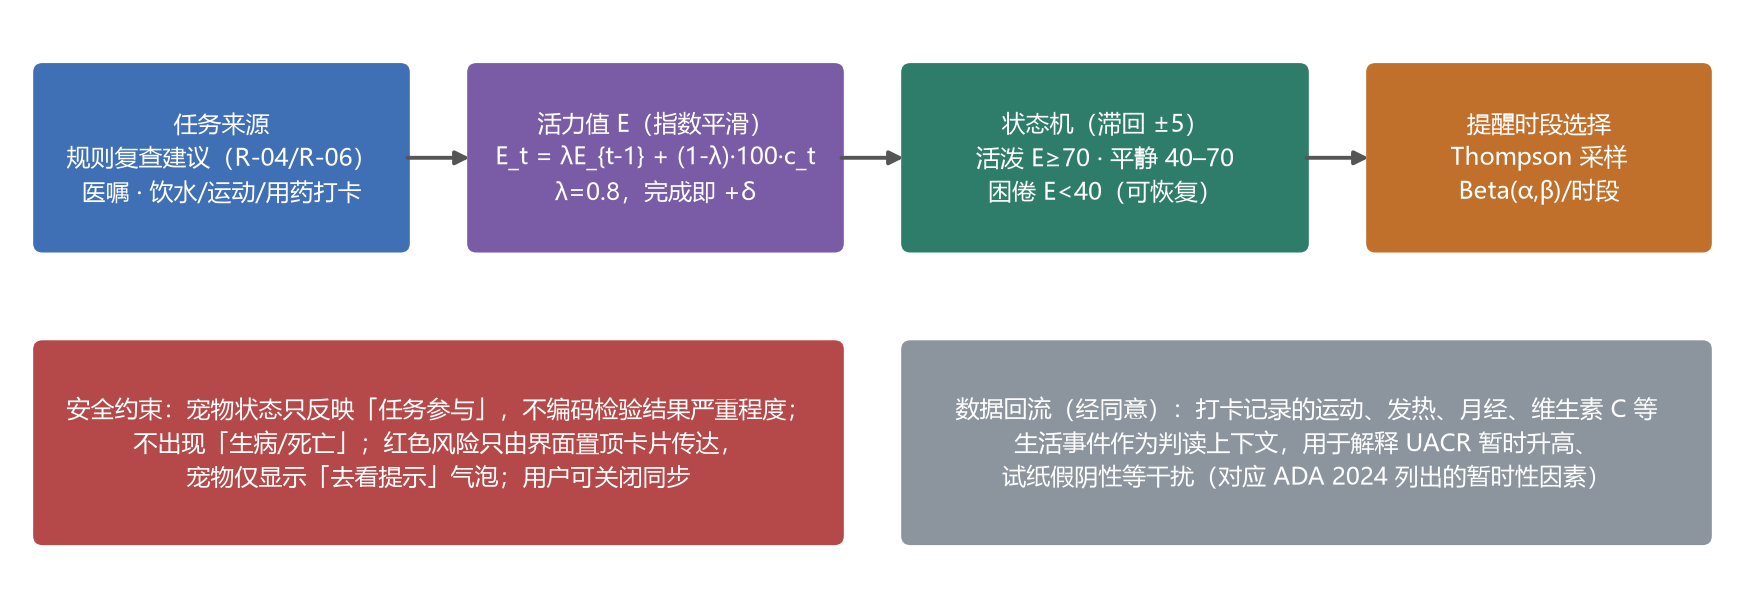
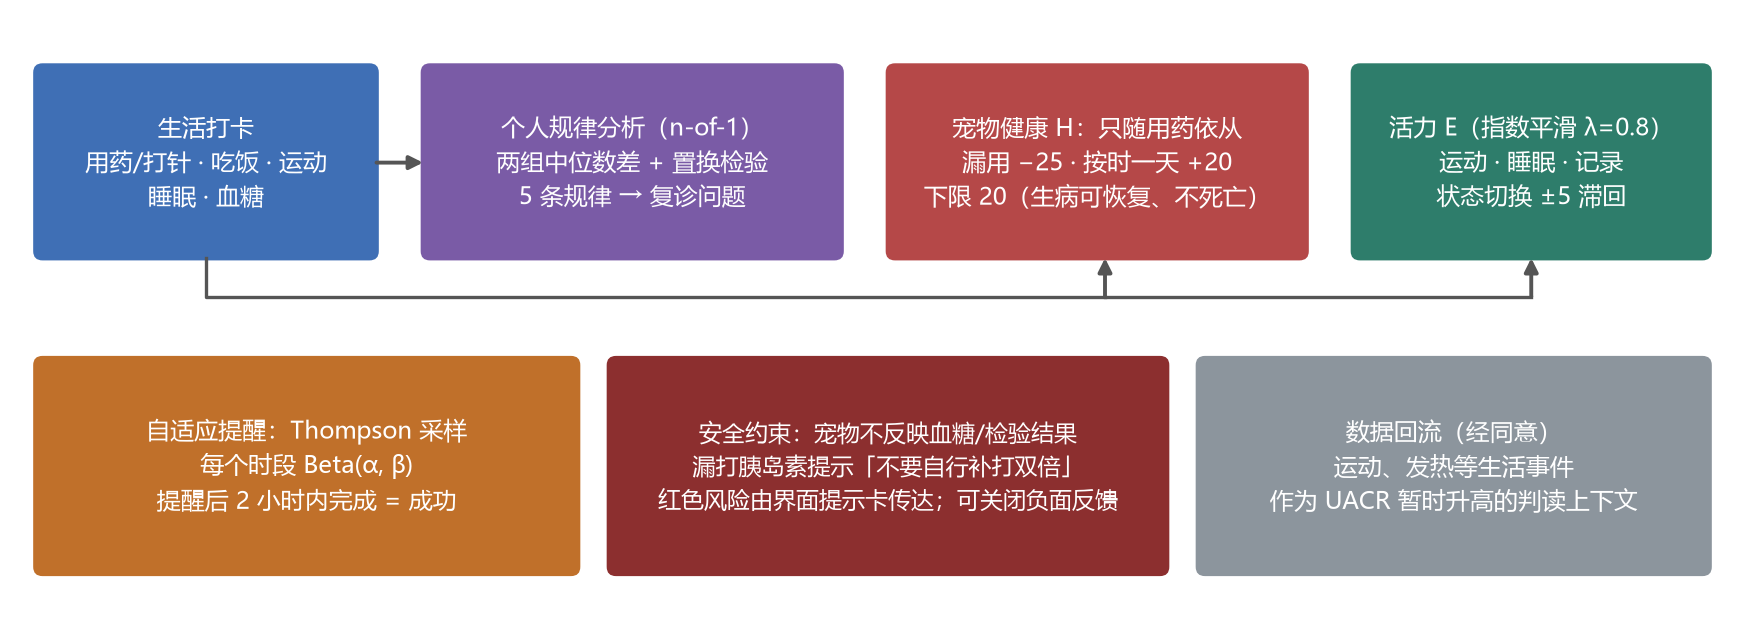
技术方案：宠物与生活作息分析改为已实现原型并加入模拟评测；更新图4、图5

diff --git a/tools/aic_report/content.py b/tools/aic_report/content.py
@@ -10,7 +10,7 @@ ABSTRACT = (
     "MediLens构建“端侧OCR—置信度驱动局部确认—三值逻辑组合规则—检索约束生成—两层安全拦截”的可审计算法链路："
     "报告在手机本地识别，低置信字段在原图上确认；风险等级由规则决定，大模型只在规则结论内改写并经校验。"
     "合成数据实验中，进入判读的识别错误由3.9%降至0.39%，错误安慰率由8.5%降至0；与同一大模型直接解读相比，感染干扰提示召回由60%升至100%，断定诊断由18.3%降至0。"
-    "系统已部署于边缘计算工作站，可在Android手机使用，并设计任务驱动的陪伴宠物促进长期随访。"
+    "系统已部署于边缘计算工作站，并实现了依从驱动的陪伴宠物与自适应提醒原型。"
 )
 
 BODY = [
@@ -56,10 +56,10 @@ BODY = [
           "③场景走查：以患者本人与代整理报告的家属视角，走查“复诊后拍照—查看重点—追问—整理问题”全过程。正式用户访谈与可理解度评分尚未开展，已列入计划。需求归纳见表2。"),
     ("table", "表2 需求归纳",
      ["类别", "具体要求"],
-     [["功能", "拍照/相册/PDF导入；字段识别与局部确认；红黄绿分级与紧急置顶；组合规则与干扰解释；分步追问；逐条“详细了解”；文字提问；复诊问题清单；历史记录"],
+     [["功能", "拍照/PDF导入与局部确认；红黄绿分级与紧急置顶；组合与干扰解释；分步追问；逐条解释；提问；复诊清单；历史"],
       ["性能", "单份报告端到端≤15 s；关键字段确认后准确率≥95%；无大模型时功能可完整运行"],
       ["安全", "未知不等于正常；不下诊断、不给用药建议；解释附出处；越界提问引导就医/遵医嘱；繁体输入同样拦截"],
-      ["体验与隐私", "老年模式（大字、高对比、朗读）；原图不出手机；仅上传脱敏结构化指标；本机加密存储；可删除"]],
+      ["体验与隐私", "老年模式（大字、朗读）；原图不出手机；仅上传脱敏指标；本机加密、可删除"]],
      [2.6, 12.4]),
 
     ("h1", "三、AI技术工具选择与运用"),
@@ -94,7 +94,8 @@ BODY = [
       ["可运行版本", "10月24日", "端侧OCR、局部确认、规则引擎、动态追问、解释与对话、端到端测试（MVP 2.0）"],
       ["实验评测", "10月25日", "独立测试集评测；对照实验A（组合规则）、B（局部确认）、C（越界拦截）"],
       ["模型接入与加固", "10月27日", "接入国内大模型、两层意图识别、UACR强制核对、实验D（对照通用大模型）"],
-      ["知识与部署", "10月28日", "文献核查与知识库导入、边缘计算工作站部署、访问口令与服务端测试"]],
+      ["知识与部署", "10月28日", "文献核查与知识库导入、边缘计算工作站部署、访问口令与服务端测试"],
+      ["生活与陪伴", "10月29日", "生活打卡、个人规律分析、陪伴宠物与自适应提醒原型及模拟评测"]],
      [3.0, 3.0, 9.0]),
     ("p", "团队分工：算法与工程组负责客户端、OCR、规则引擎、后端与评测；医学资料组负责文献检索与知识撰写；产品与测试组负责需求、走查与演示。"
           "资源：开发电脑与Android 15模拟器、一台Ubuntu 22.04边缘计算工作站、国内大模型服务平台。质量保障：后端100项、客户端29项单元测试及端到端集成测试，每次修改全部回归。"),
@@ -147,15 +148,15 @@ BODY = [
           "危险症状按症状类别归纳（呼吸深快或费力、口中水果味、意识或言语改变、胸痛胸闷、晕厥、冷汗等），并结合报告上下文——尿酮体阳性时“乏力、恶心、口渴”也按危险征象处理。"
           "第一层未命中时，第二层由大模型做四分类（用药/诊断/紧急/无），与回答改写并行执行以节省时间。命中任一类即返回固定安全模板（遵医嘱、就医或拨打120），不经过大模型。"),
     ("fig", "fig3_safety.png", "图3 两层意图识别与受约束生成的安全链路", 15.0),
-    ("h3", "9. 陪伴宠物模块的算法设计（规划中，尚未实现）"),
-    ("p", "糖尿病管理依赖长期依从，宠物陪伴用于提升复查与日常健康任务的持续参与（图4）。任务来源包括规则生成的复查建议（如R-04的“3–6个月内复查UACR”）、用户录入的医嘱，以及饮水、运动、用药打卡。"
-          "宠物活力值采用指数平滑：E_t = λE_{t-1} + (1−λ)·100·c_t（c_t为当日任务完成率，λ=0.8，约3天半衰），完成任务即时加δ以体现“可恢复”；"
-          "状态机划分为活泼（E≥70）、平静（40–70）与困倦（E<40），阈值设±5滞回以避免频繁跳变。提醒时段采用Thompson采样[23]：为早、中、晚等时段维护Beta(α, β)分布，"
-          "以“提醒后2小时内完成任务”为奖励在线更新，在免打扰时段约束下自适应选择提醒时间。"),
-    ("p", "安全设计：宠物状态只反映“任务参与”，不编码检验结果的严重程度，不出现“生病、死亡”等制造焦虑的表现；红色风险只由界面置顶卡片传达，宠物仅显示“去看提示”气泡；用户可关闭同步。"
-          "此外，经用户同意，打卡记录中的运动、发热、月经、维生素C补充等生活事件可作为判读上下文，用于解释UACR暂时升高[7][11]或试纸假阴性[14]，使陪伴模块与解读算法形成数据闭环。"
-          "该模块评估方案为：以复查按时完成率与30天留存为主要指标，与无宠物版本进行对照。"),
-    ("fig", "fig4_pet.png", "图4 陪伴宠物模块算法设计（规划中）", 15.0),
+    ("h3", "9. 生活作息分析与陪伴宠物（原型）"),
+    ("p", "糖尿病管理依赖长期依从。原型让患者打卡用药/打针、吃饭、运动、睡眠与血糖（图4），在个人数据上做“n-of-1”规律分析：对每条候选规律把记录分为两组，"
+          "比较餐后2小时、次日空腹或夜间最低血糖的中位数差，并用置换检验评估差异是否可能出于偶然；每组不足4例、差异小于阈值或p>0.2时不输出。"
+          "已实现5条规律：餐时胰岛素在餐后才打、饭后1小时内活动、睡眠不足6小时、晚间运动、漏用药日。输出只描述“相关”，不给剂量建议，并转为复诊问题。"),
+    ("p", "宠物健康值H只随用药依从变化：每漏用一次−25，按时用药一天+20，下限20，即漏药会“生病”以示警示，1–2天即可恢复且不会“死亡”；"
+          "活力值E_t = 0.8·E_{t-1} + 0.2·100·c_t（c_t为当日运动、睡眠、记录的完成度），状态切换设±5滞回。宠物不反映血糖与检验结果，避免患者因数值不佳而回避记录；"
+          "漏打胰岛素时提示“不要自行补打双倍”；负面反馈可关闭。提醒时段采用Thompson采样[23]：为每个候选时段维护Beta(α, β)分布，以“提醒后2小时内完成”为奖励在线更新。"
+          "经用户同意，打卡中的运动、发热等生活事件还可作为解释UACR暂时升高的上下文[7][11]，与解读模块形成数据闭环。"),
+    ("fig", "fig4_pet.png", "图4 生活作息分析与陪伴宠物算法", 15.0),
     ("h3", "10. 部署、隐私与安全"),
     ("p", "后端部署于Ubuntu 22.04边缘计算工作站并开机自启，部署脚本无需管理员权限，仅依赖国内镜像。服务端设访问口令，无口令请求一律拒绝；大模型密钥只存于服务器。"
           "客户端仅上传脱敏结构化指标与问答，不上传图像、姓名与医院；本机记录加密存储、可一键删除。大模型不可用时自动降级，判读与解释照常运行。"),
@@ -163,7 +164,7 @@ BODY = [
     ("h1", "五、研究或应用成效"),
     ("h2", "（一）成果展示"),
     ("p", "已实现从拍照/导入、本机识别、局部确认、组合判读、动态追问、逐条解释、文字提问、复诊问题清单到本机加密保存的完整流程，普通模式与老年模式均可完成（图5）；"
-          "Android应用已可连接边缘服务器使用。语音、药盒识别、注册与云备份、趋势提醒与陪伴宠物保留入口并标注“待实现”。各模块实测结果见表6。"),
+          "生活打卡与陪伴宠物原型已可使用；Android应用已连接边缘服务器。语音、药盒识别、注册与云备份保留入口并标注“待实现”。各模块实测结果见表6。"),
     ("fig", "fig6_screens.png", "图5 应用界面（Android模拟器实拍，合成数据）", 15.0),
     ("table", "表6 各模块测试结果（合成数据）",
      ["模块", "指标", "目标", "实测"],
@@ -174,12 +175,14 @@ BODY = [
       ["解释生成", "数值一致率 / 出处覆盖率", "100%", "100% / 100%（1830条）"],
       ["安全拦截", "越界拦截率；正常问题误拦截", "100%；0", "90.9%（第二轮新题）；0/16"],
       ["整体性能", "端到端时长", "≤15 s", "3.3–8.0 s；大模型回答1.6–7 s"],
+      ["生活规律分析", "检出率/误报率（28天模拟记录）", "—", "胰岛素先后100%/1%；睡眠94%/0%；饭后活动78%/0%"],
+      ["自适应提醒", "30天任务完成率", "—", "54.6%（随机时段48.0%，上限65%）"],
       ["整体体验", "解读可理解度", "≥4/5", "未测（计划5–10人评分）"]],
      [2.8, 4.6, 2.6, 5.0]),
     ("h2", "（二）效益分析"),
-    ("p", "社会效益：把专业尿检信息转化为可理解、可核查、可追溯的内容，以复诊问题清单为出口帮助患者在有限门诊时间内更有准备地沟通；老年模式与家属代整理场景降低照护负担。"
-          "成本方面，识别在手机端完成、判读为规则计算，服务器无需GPU，大模型仅用于短文本改写且可降级运行，便于在基层推广。"
-          "方法效益：合成报告生成器、开发/测试集隔离、规则独立判定程序、两轮越界题库与异厂商模型评审的对照实验框架，可供同类医学AI解释系统复用。"),
+    ("p", "社会效益：把专业尿检信息转化为可理解、可追溯的内容，以复诊问题清单帮助患者更有准备地沟通，并以陪伴与提醒促进长期依从。"
+          "成本：识别在手机端、判读为规则计算，服务器无需GPU，大模型可降级运行，便于在基层推广。"
+          "方法：合成数据生成器、开发/测试集隔离、独立判定程序、越界题库与异厂商模型评审的对照框架，可供同类系统复用。"),
     ("h2", "（三）创新性体现"),
     ("p", "本作品不把OCR、检索增强生成[20]或规则引擎等单项技术作为创新点，而是针对“医学信息解释的可靠性”提出并验证了一套可审计的算法组合："),
     ("p", "（1）置信度与领域规则联合驱动的局部确认：把“人在回路”精确施加到少数高风险字段，并针对“高置信度静默错误”引入关键定量值强制核对与小数点候选。"
@@ -200,8 +203,8 @@ BODY = [
      [8.0, 3.5, 3.5]),
     ("fig", "fig5_results.png", "图6 对照实验结果", 15.0),
     ("p", "实验D由另一厂商模型按固定标准评审，人工抽查确认“错误安慰”与“漏提感染干扰”判定正确；“断定诊断”判定偏严，18.3%可能高估。"),
-    ("p", "（4）任务驱动、与判读解耦的陪伴宠物设计：宠物只反映任务参与而不暗示病情，并以Thompson采样自适应提醒时间、以生活事件回流丰富判读上下文。"
-          "根据竞品分析，现有陪伴激励类产品的宠物与医疗数据没有联动，该设计目前处于方案阶段。"),
+    ("p", "（4）依从驱动、与检验结果解耦的陪伴宠物：漏药“生病”以示警示但可恢复、不死亡，并以Thompson采样自适应提醒时间、以n-of-1规律分析连接日常作息与血糖。"
+          "在100名植入效应与100名无效应的模拟患者上（28天记录），主要规律检出率78%–100%、误报率≤1%；自适应提醒使任务完成率由48.0%提升至54.6%。竞品分析中，陪伴激励类产品的宠物与医疗数据没有联动。"),
 
     ("h1", "六、总结与展望"),
     ("h2", "（一）经验总结"),
@@ -214,7 +217,7 @@ BODY = [
      ["时间", "方向", "主要内容"],
      [["近期（1–3个月）", "真实数据与医学审核", "伦理审批后采集不少于100份授权脱敏真实报告评测识别率；医学专家审核规则与知识；5–10人可理解度评分；编写第三轮独立越界题库"],
       ["近期（1–3个月）", "安全与知识", "在边缘工作站部署轻量意图分类模型，消除对外部平台时延的依赖；知识库扩充至40条以上并引入向量检索"],
-      ["中期（3–6个月）", "陪伴与随访", "实现陪伴宠物与任务系统，开展依从性对照评估；多次报告趋势追踪与复查提醒；语音交互"],
+      ["中期（3–6个月）", "陪伴与随访", "系统通知提醒、对接血糖仪/CGM；用公开CGM数据集验证规律分析；评估宠物负面反馈对依从与情绪的影响；语音交互"],
       ["远期", "扩展与推广", "扩展血糖、HbA1c、肌酐/eGFR联合解读；家属共享；与社区医疗机构合作试点"]],
      [3.2, 3.2, 8.6]),
 ]

diff --git a/tools/aic_report/make_figures.py b/tools/aic_report/make_figures.py
@@ -131,18 +131,22 @@ def fig_safety():
 
 
 def fig_pet():
-    fig, ax = plt.subplots(figsize=(11, 3.7))
+    fig, ax = plt.subplots(figsize=(11, 3.9))
     ax.set_xlim(0, 11)
-    ax.set_ylim(0, 3.7)
+    ax.set_ylim(0, 3.9)
     ax.axis("off")
-    box(ax, 0.1, 2.2, 2.4, 1.2, "任务来源\n规则复查建议（R-04/R-06）\n医嘱 · 饮水/运动/用药打卡", C_SRV, fs=8.5)
-    box(ax, 2.9, 2.2, 2.4, 1.2, "活力值 E（指数平滑）\nE_t = λE_{t-1} + (1-λ)·100·c_t\nλ=0.8，完成即 +δ", C_KB, fs=8.5)
-    box(ax, 5.7, 2.2, 2.6, 1.2, "状态机（滞回 ±5）\n活泼 E≥70 · 平静 40–70\n困倦 E<40（可恢复）", C_DEV, fs=8.5)
-    box(ax, 8.7, 2.2, 2.2, 1.2, "提醒时段选择\nThompson 采样\nBeta(α,β)/时段", C_LLM, fs=8.5)
-    for x in (2.5, 5.3, 8.3):
-        arrow(ax, x, 2.8, x + 0.4, 2.8)
-    box(ax, 0.1, 0.3, 5.2, 1.3, "安全约束：宠物状态只反映「任务参与」，不编码检验结果严重程度；\n不出现「生病/死亡」；红色风险只由界面置顶卡片传达，\n宠物仅显示「去看提示」气泡；用户可关闭同步", "#B54848", fs=8.5)
-    box(ax, 5.7, 0.3, 5.2, 1.3, "数据回流（经同意）：打卡记录的运动、发热、月经、维生素 C 等\n生活事件作为判读上下文，用于解释 UACR 暂时升高、\n试纸假阴性等干扰（对应 ADA 2024 列出的暂时性因素）", C_GREY, fs=8.5)
+    box(ax, 0.1, 2.35, 2.2, 1.25, "生活打卡\n用药/打针 · 吃饭 · 运动\n睡眠 · 血糖", C_SRV, fs=8.6)
+    box(ax, 2.6, 2.35, 2.7, 1.25, "个人规律分析（n-of-1）\n两组中位数差 + 置换检验\n5 条规律 → 复诊问题", C_KB, fs=8.6)
+    box(ax, 5.6, 2.35, 2.7, 1.25, "宠物健康 H：只随用药依从\n漏用 −25 · 按时一天 +20\n下限 20（生病可恢复、不死亡）", "#B54848", fs=8.6)
+    box(ax, 8.6, 2.35, 2.3, 1.25, "活力 E（指数平滑 λ=0.8）\n运动 · 睡眠 · 记录\n状态切换 ±5 滞回", C_DEV, fs=8.6)
+    arrow(ax, 2.3, 2.97, 2.6, 2.97)
+    ax.plot([1.2, 1.2, 7.0], [2.35, 2.1, 2.1], color="#555", lw=1.2)
+    arrow(ax, 7.0, 2.1, 7.0, 2.35)
+    ax.plot([7.0, 9.75], [2.1, 2.1], color="#555", lw=1.2)
+    arrow(ax, 9.75, 2.1, 9.75, 2.35)
+    box(ax, 0.1, 0.3, 3.5, 1.4, "自适应提醒：Thompson 采样\n每个时段 Beta(α, β)\n提醒后 2 小时内完成 = 成功", C_LLM, fs=8.6)
+    box(ax, 3.8, 0.3, 3.6, 1.4, "安全约束：宠物不反映血糖/检验结果\n漏打胰岛素提示「不要自行补打双倍」\n红色风险由界面提示卡传达；可关闭负面反馈", "#8C2F2F", fs=8.4)
+    box(ax, 7.6, 0.3, 3.3, 1.4, "数据回流（经同意）\n运动、发热等生活事件\n作为 UACR 暂时升高的判读上下文", C_GREY, fs=8.6)
     save(fig, "fig4_pet.png")
 
 
@@ -188,8 +192,8 @@ def fig_results():
 
 
 def fig_screens():
-    shots = ["04_局部确认_原图高亮与候选.png", "07_解读总览.png", "09_详细了解原位展开.png", "13_老年模式_紧急提示置顶.png"]
-    caps = ["(a) 原图局部确认", "(b) 解读总览", "(c) 详细了解（附来源）", "(d) 老年模式·紧急置顶"]
+    shots = ["04_局部确认_原图高亮与候选.png", "07_解读总览.png", "13_老年模式_紧急提示置顶.png", "16_小兔_漏药生病.png"]
+    caps = ["(a) 原图局部确认", "(b) 解读总览", "(c) 老年模式·紧急置顶", "(d) 小兔陪伴·漏药生病"]
     ims = [Image.open(ROOT / "docs" / "screenshots" / s).convert("RGB") for s in shots]
     h = 900
     ims = [im.resize((int(im.width * h / im.height), h)) for im in ims]
